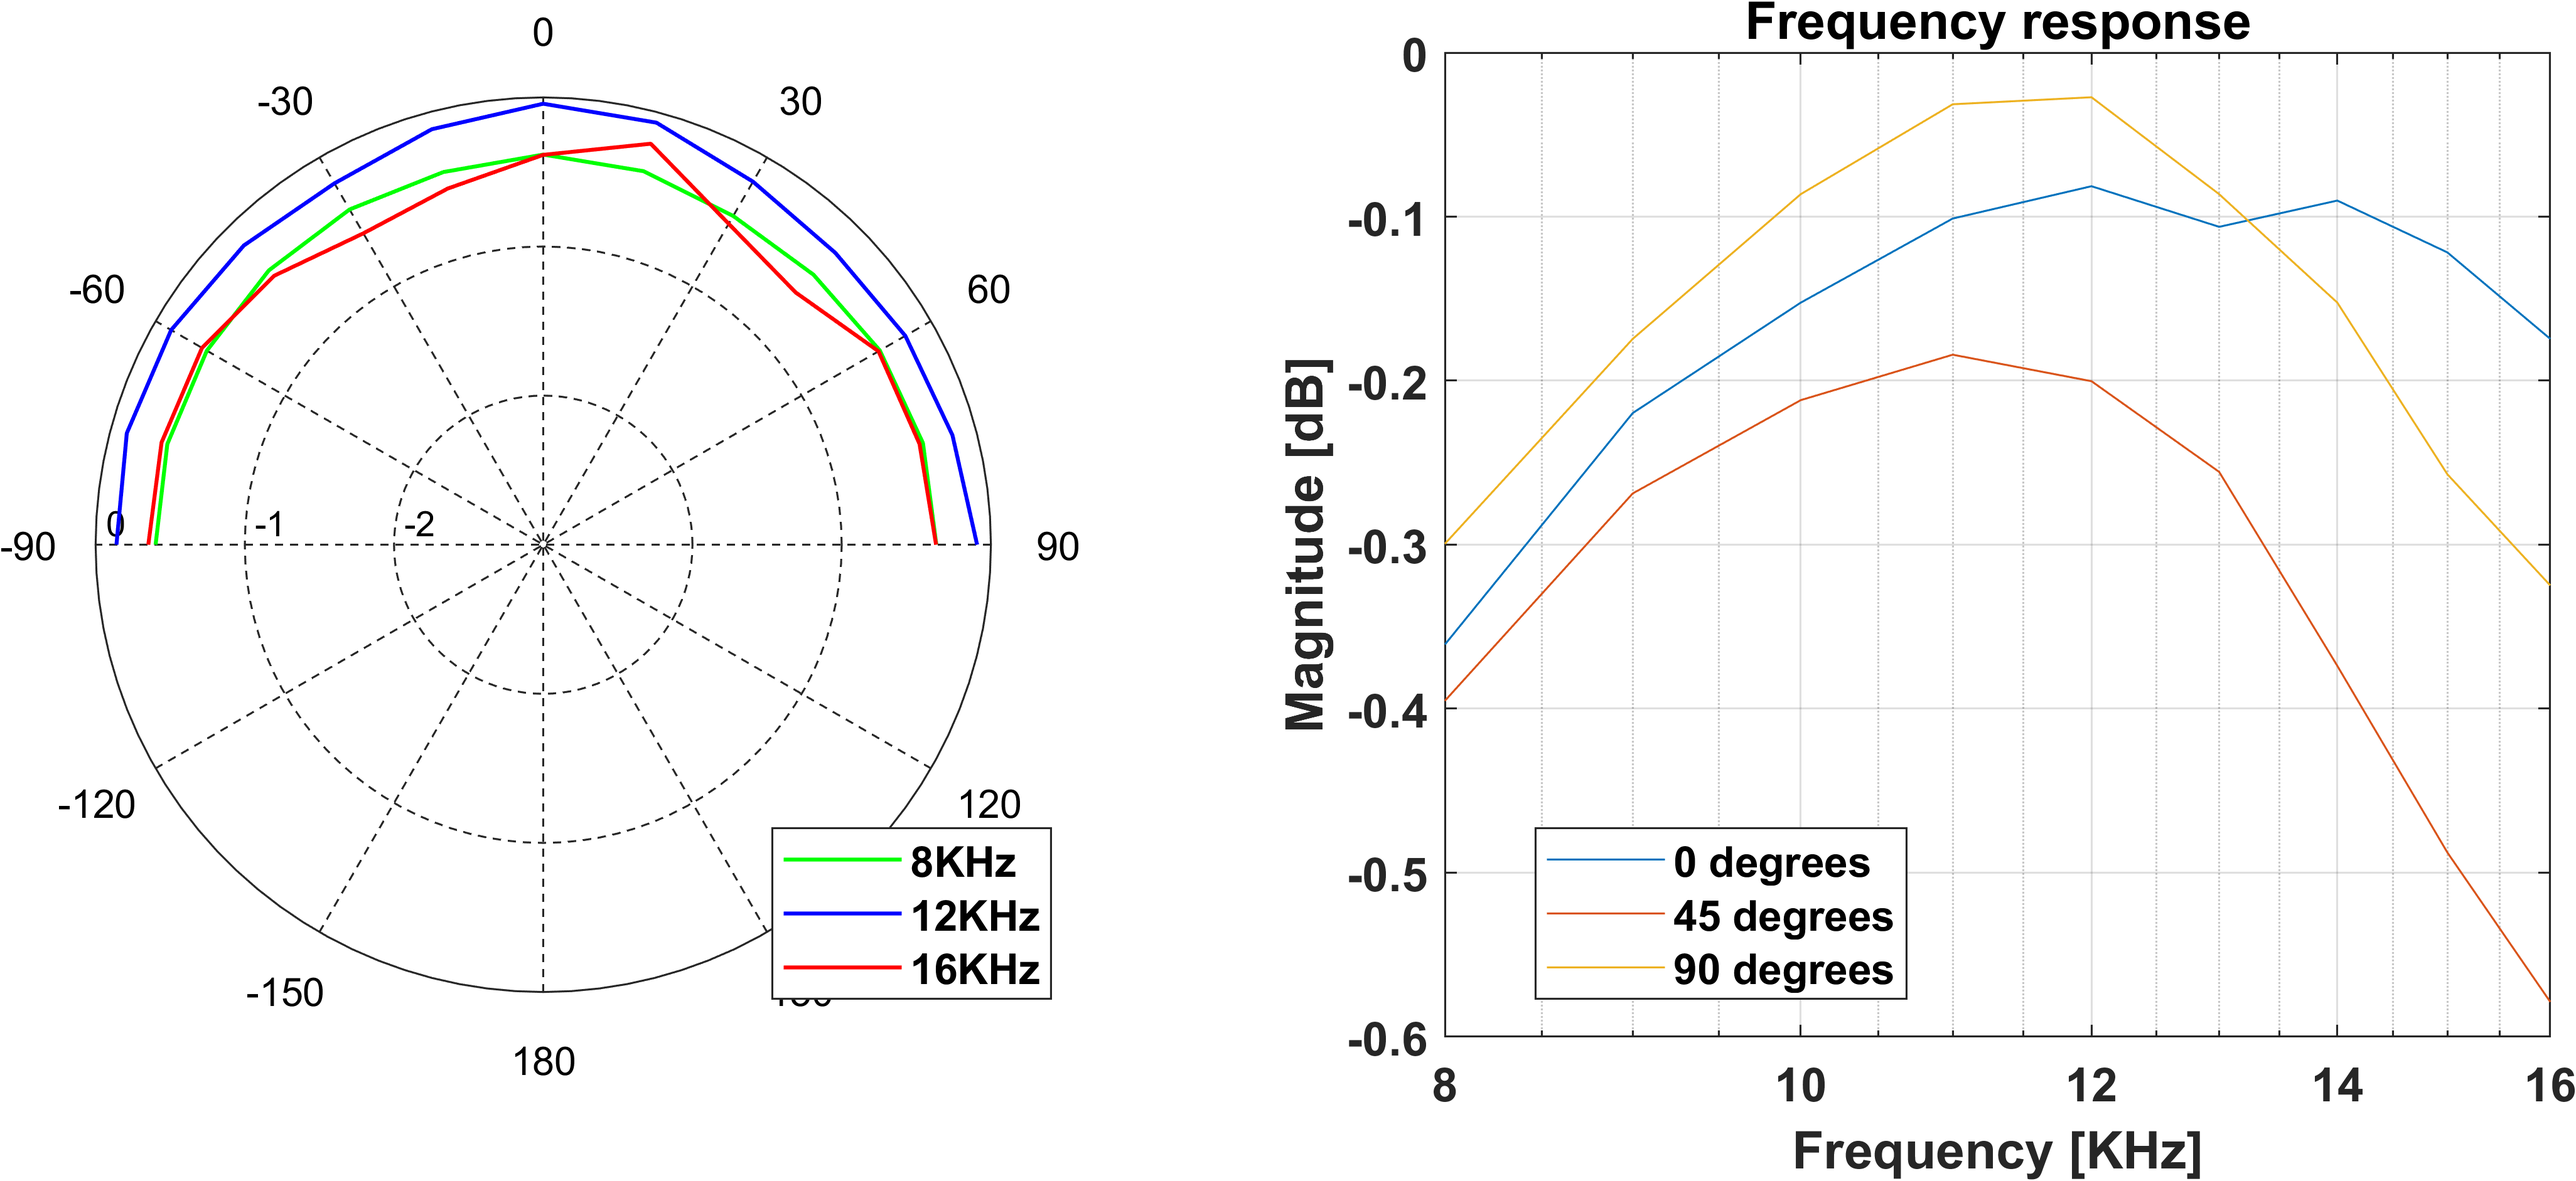
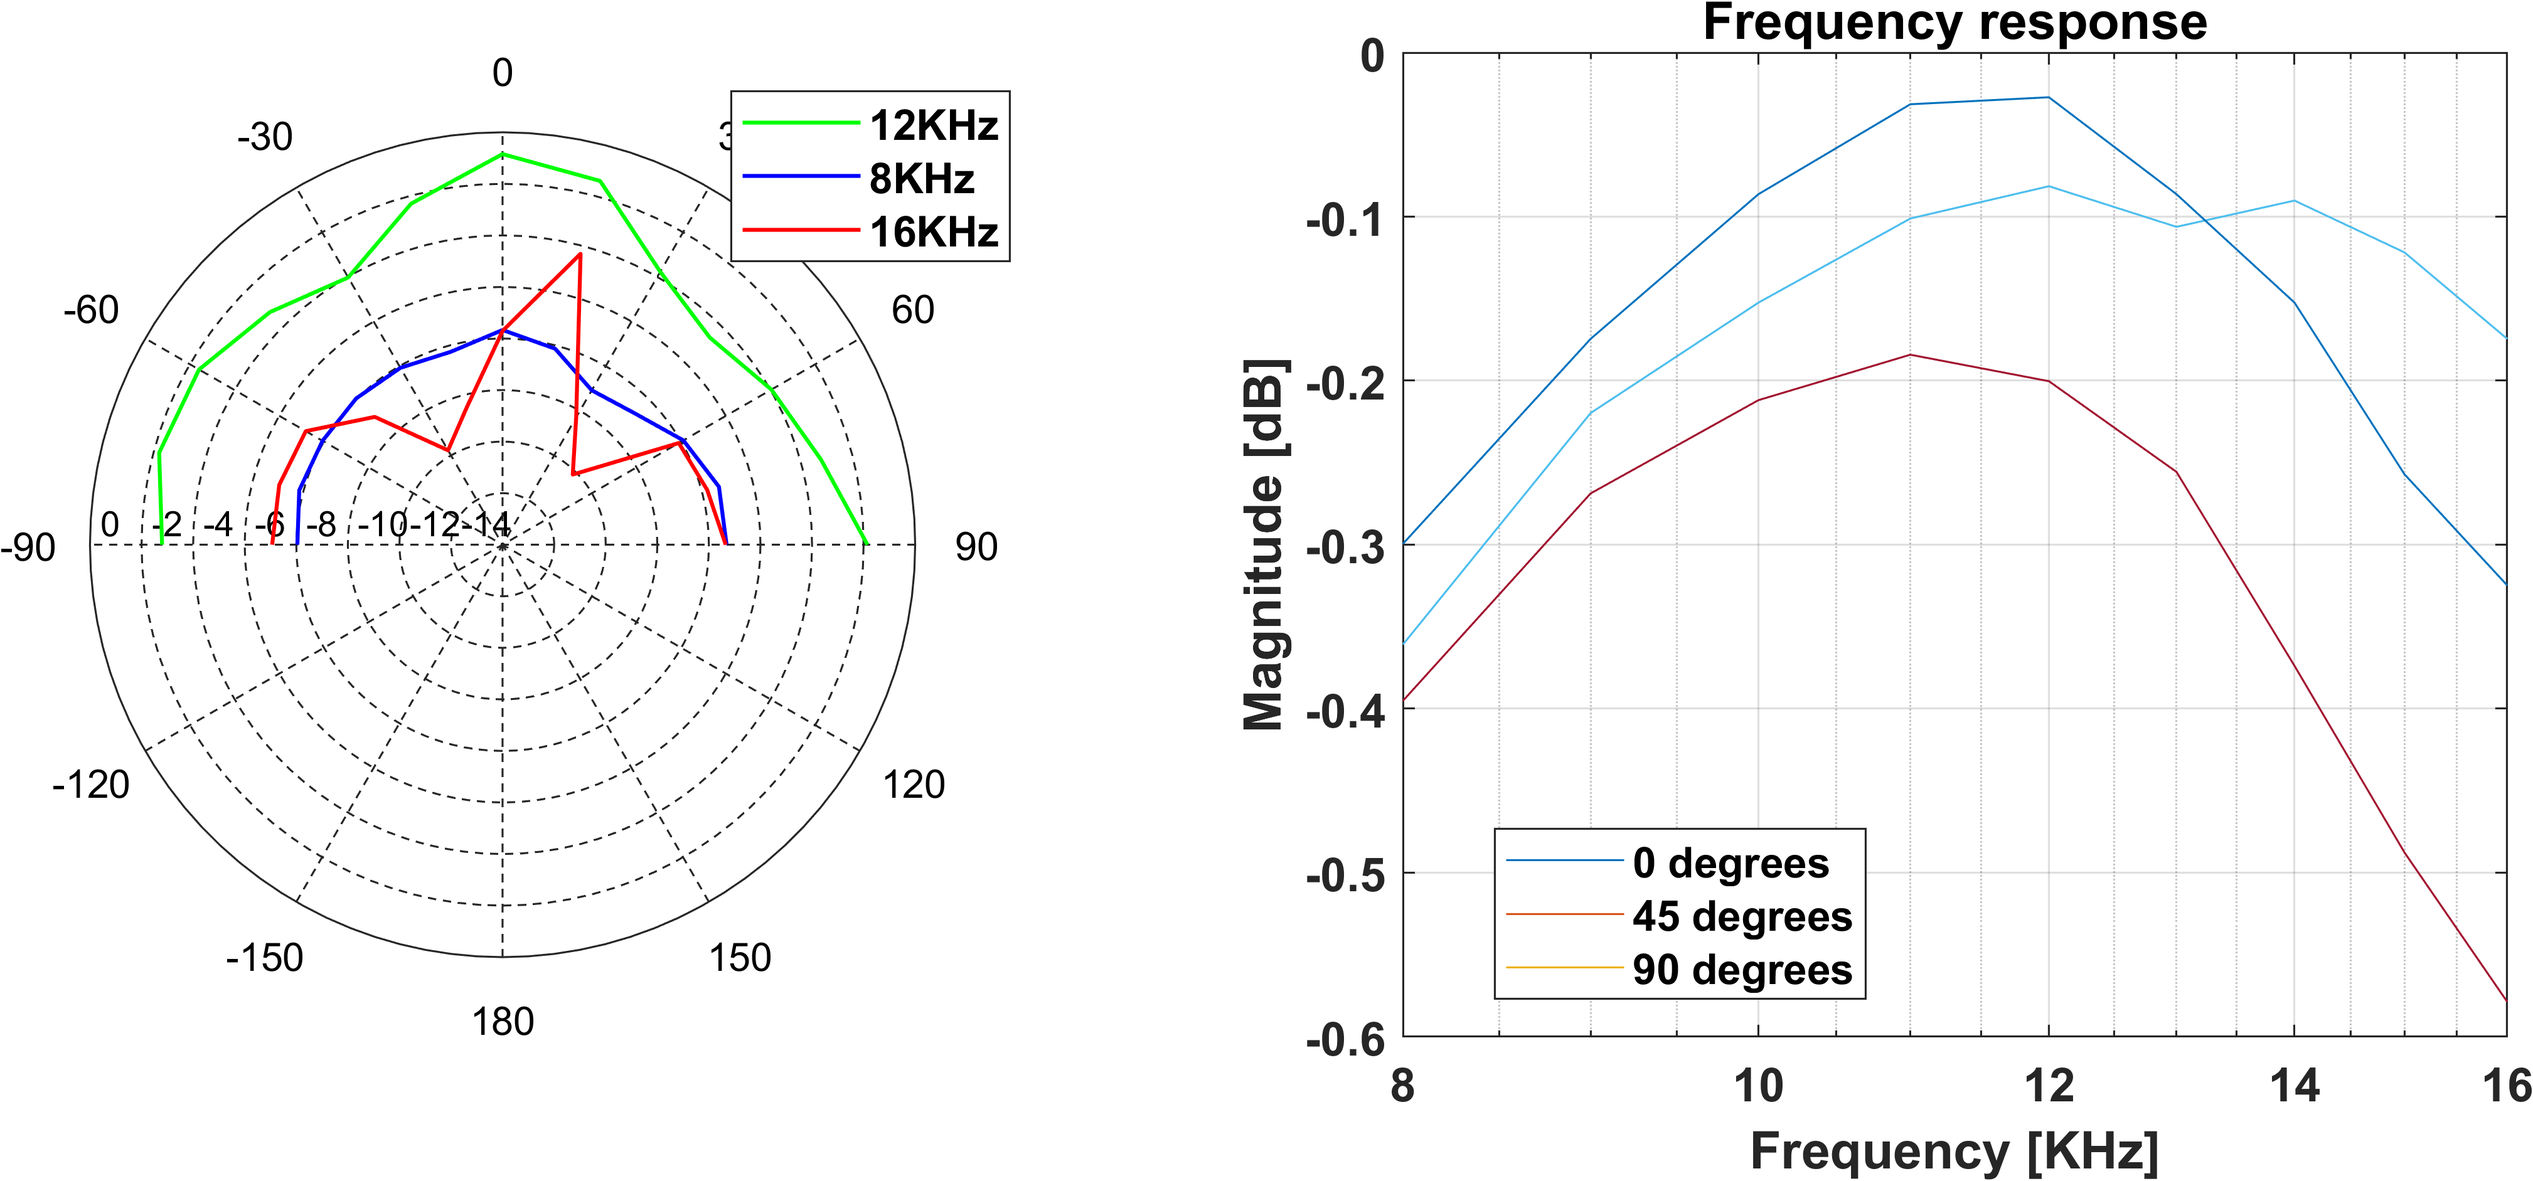
Desktop

diff --git a/Lab3.m b/Lab3.m
@@ -13,8 +13,8 @@ deg_0 = Freq_Response.data(1,1:18);
 deg_45 = Freq_Response.data(2,1:18);
 deg_90 = Freq_Response.data(3,1:18);
 
-scalar1 = 5.44;
-scalar2 = 6.36;
+scalar1 = max([deg_0 deg_45 deg_90]);
+scalar2 = max([Freq_16KHz Freq_12KHz Freq_8KHz]);
 
 Freq_8KHz_mean = zeros(1,13);
 Freq_12KHz_mean = zeros(1,13);
@@ -35,11 +35,13 @@ for i=[1:2:size(deg_0,2)]
     deg_45_mean(i) = mean([deg_45(i) deg_45(i+1)]);
     deg_90_mean(i) = mean([deg_90(i) deg_90(i+1)]);
 end
-
+Freq_8KHz_mean = Freq_8KHz_mean(Freq_8KHz_mean~=0);
+Freq_12KHz_mean = Freq_12KHz_mean(Freq_12KHz_mean~=0);
+Freq_16KHz_mean = Freq_16KHz_mean(Freq_16KHz_mean~=0);
 %% Normalize the two sets by the biggest value for both sets sepertely
-Freq_8KHz_mean = log10(Freq_8KHz_mean(Freq_8KHz_mean~=0) ./ scalar2);
-Freq_12KHz_mean = log10(Freq_12KHz_mean(Freq_12KHz_mean~=0) ./ scalar2);
-Freq_16KHz_mean = log10(Freq_16KHz_mean(Freq_16KHz_mean~=0) ./scalar2);
+Freq_8KHz_mean = 20*log10(Freq_8KHz_mean ./ scalar2);
+Freq_12KHz_mean = 20*log10(Freq_12KHz_mean ./ scalar2);
+Freq_16KHz_mean = 20*log10(Freq_16KHz_mean ./scalar2);
 
 deg_0_mean = log10(deg_0_mean(deg_0_mean~=0) ./ scalar1);
 deg_45_mean = log10(deg_45_mean(deg_45_mean~=0) ./ scalar1);
@@ -48,14 +50,15 @@ deg_90_mean = log10(deg_90_mean(deg_90_mean~=0) ./ scalar1);
 %% Plot beam patter
 figure(1)
 subplot(1,2,1)
-First = polardb(Degrees, Freq_8KHz_mean, -3, 1,"-g")
+First = polardb(Degrees, Freq_12KHz_mean, -15, 2,"-g")
 hold on
-second = polardb(Degrees, Freq_12KHz_mean, -3, 1, "-b")
-third = polardb(Degrees, Freq_16KHz_mean, -3, 1, "-r")
+second = polardb(Degrees, Freq_8KHz_mean, -15, 2, "-b")
+third = polardb(Degrees, Freq_16KHz_mean, -15, 2, "-r")
 hold off
-legend("", "", "", "","","","8KHz", "12KHz", "16KHz", "location", "best");
+legend("", "", "", "","","","12KHz", "8KHz", "16KHz", "location", "best");
 set(gca,'fontsize',12,'fontweight','bold');
-set(gcf,'units','centimeters','position',[2,1,29.7,11.0])
+%set(gcf,'units','centimeters','position',[2,1,29.7,11.0])
+
 
 %% Plot frequency response for the three distinct angles
 figure(1)
@@ -64,6 +67,8 @@ semilogx(freq, deg_0_mean);
 hold on
 semilogx(freq, deg_45_mean);
 semilogx(freq, deg_90_mean);
+%semilogx(freq, tot_deg);
+
 hold off
 grid on
 xlabel("Frequency [KHz]");
